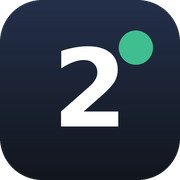
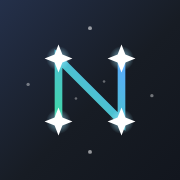
Add files via upload

diff --git a/index.html b/index.html
@@ -3,7 +3,7 @@
 <head>
 <meta charset="utf-8">
 <meta name="viewport" content="width=device-width, initial-scale=1, viewport-fit=cover">
-<title>Segundo de Carrera · 2026/27</title>
+<title>Nolan</title>
 <meta name="theme-color" content="#171C24">
 <!-- settings (language, theme, animations) are read before anything is painted,
      so the page never flashes in the wrong theme. prefs.js takes over from here. -->
@@ -22,26 +22,26 @@
 <link rel="icon" href="favicon.ico" sizes="any">
 <link rel="apple-touch-icon" href="apple-touch-icon.png">
 <link rel="manifest" href="manifest.webmanifest">
-<meta name="apple-mobile-web-app-title" content="2º Carrera">
+<meta name="apple-mobile-web-app-title" content="Nolan">
 <link rel="preconnect" href="https://fonts.googleapis.com">
 <link rel="preconnect" href="https://fonts.gstatic.com" crossorigin>
 <!-- the font does not block the first paint: it applies as soon as it arrives -->
 <link href="https://fonts.googleapis.com/css2?family=Archivo:wght@400;500;600;700;800&display=swap" rel="stylesheet" media="print" onload="this.media='all'">
 <noscript><link href="https://fonts.googleapis.com/css2?family=Archivo:wght@400;500;600;700;800&display=swap" rel="stylesheet"></noscript>
-<link rel="stylesheet" href="css/base.css?v=42">
-<link rel="stylesheet" href="css/header.css?v=42">
-<link rel="stylesheet" href="css/tabbar.css?v=42">
-<link rel="stylesheet" href="css/today.css?v=42">
-<link rel="stylesheet" href="css/schedule.css?v=42">
-<link rel="stylesheet" href="css/planner.css?v=42">
-<link rel="stylesheet" href="css/subjects.css?v=42">
-<link rel="stylesheet" href="css/exams.css?v=42">
-<link rel="stylesheet" href="css/tasks.css?v=42">
-<link rel="stylesheet" href="css/home.css?v=42">
-<link rel="stylesheet" href="css/nolan.css?v=42">
-<link rel="stylesheet" href="css/settings.css?v=42">
-<link rel="stylesheet" href="css/effects.css?v=42">
-<link rel="stylesheet" href="css/light.css?v=42">
+<link rel="stylesheet" href="css/base.css?v=43">
+<link rel="stylesheet" href="css/header.css?v=43">
+<link rel="stylesheet" href="css/tabbar.css?v=43">
+<link rel="stylesheet" href="css/today.css?v=43">
+<link rel="stylesheet" href="css/schedule.css?v=43">
+<link rel="stylesheet" href="css/planner.css?v=43">
+<link rel="stylesheet" href="css/subjects.css?v=43">
+<link rel="stylesheet" href="css/exams.css?v=43">
+<link rel="stylesheet" href="css/tasks.css?v=43">
+<link rel="stylesheet" href="css/home.css?v=43">
+<link rel="stylesheet" href="css/nolan.css?v=43">
+<link rel="stylesheet" href="css/settings.css?v=43">
+<link rel="stylesheet" href="css/effects.css?v=43">
+<link rel="stylesheet" href="css/light.css?v=43">
 </head>
 <body>
 <header class="top">
@@ -52,7 +52,7 @@
         <a class="icon home-btn" href="#home" aria-label="Inicio" title="Inicio" data-i18n-aria="s.home" data-i18n-title="s.home">
           <svg viewBox="0 0 24 24" aria-hidden="true"><path class="f" d="M4 10.6 12 4l8 6.6V19a1.5 1.5 0 0 1-1.5 1.5H15v-5.2H9v5.2H5.5A1.5 1.5 0 0 1 4 19z"/></svg>
         </a>
-        <div class="brand"><span class="dot"></span><span data-i18n="s.brand">UC3M · Segundo de carrera · </span><span data-term>1.er cuatrimestre</span></div>
+        <div class="brand"><svg class="brand-mark" viewBox="0 0 64 64" aria-hidden="true"><defs><linearGradient id="brandInk" x1="0" y1="1" x2="1" y2="0"><stop offset="0" stop-color="#3FD9A4"/><stop offset="1" stop-color="#5AA9FF"/></linearGradient></defs><path d="M12 52V12L52 52V12" fill="none" stroke="url(#brandInk)" stroke-width="6"/><g fill="#fff"><path d="M12 2l3 7 7 3-7 3-3 7-3-7-7-3 7-3z"/><path d="M52 2l3 7 7 3-7 3-3 7-3-7-7-3 7-3z"/><path d="M12 42l3 7 7 3-7 3-3 7-3-7-7-3 7-3z"/><path d="M52 42l3 7 7 3-7 3-3 7-3-7-7-3 7-3z"/></g></svg><span data-i18n="s.brand">Nolan · UC3M · </span><span data-term>1.er cuatrimestre</span></div>
       </div>
       <div class="hdr-actions">
         <a class="ag-btn" href="https://aulaglobal.uc3m.es" target="_blank" rel="noopener" aria-label="Aula Global (se abre en otra pestaña)" data-i18n-aria="s.aulaGlobalAria">
@@ -209,7 +209,7 @@
 
 </main>
 
-<footer><div class="wrap"><p data-i18n="s.footer">Montado a partir de tu horario personal de la UC3M, el horario del grupo 1081, las guías docentes 2026/27 y los materiales de presentación de cada asignatura. Los datos de profesorado proceden del directorio público de la universidad. Lo que en los documentos originales estaba marcado como provisional sigue estándolo aquí.</p><p><a href="#notes" id="notesLink">·</a></p><p class="version">v42</p></div></footer>
+<footer><div class="wrap"><p data-i18n="s.footer">Montado a partir de tu horario personal de la UC3M, el horario del grupo 1081, las guías docentes 2026/27 y los materiales de presentación de cada asignatura. Los datos de profesorado proceden del directorio público de la universidad. Lo que en los documentos originales estaba marcado como provisional sigue estándolo aquí.</p><p><a href="#notes" id="notesLink">·</a></p><p class="version">v43</p></div></footer>
 </div>
 <div id="debug"></div>
 
@@ -220,7 +220,7 @@
   <div class="p-in">
     <div class="p-top">
       <div class="p-time" id="homeTime">--:--</div>
-      <div class="p-greeting" id="homeGreeting" data-i18n="s.hello">Hola, Shengyu</div>
+      <div class="p-greeting" id="homeGreeting" data-i18n="s.hello">Hola, Nolan</div>
     </div>
 
     <div class="p-view" data-view="home">
@@ -255,29 +255,29 @@
     <div class="p-view p-nolan" data-view="nolan" id="nolanView" hidden></div>
   </div>
 </div>
-<script src="config.js?v=42" onerror="void 0"></script>
-<script src="data.js?v=42"></script>
-<script src="eval.js?v=42"></script>
-<script src="js/prefs.js?v=42"></script>
-<script src="js/i18n.js?v=42"></script>
-<script src="js/core.js?v=42"></script>
-<script src="js/validate.js?v=42"></script>
-<script src="js/derived.js?v=42"></script>
-<script src="js/cloud.js?v=42"></script>
-<script src="js/header.js?v=42"></script>
-<script src="js/schedule.js?v=42"></script>
-<script src="js/today.js?v=42"></script>
-<script src="js/subjects.js?v=42"></script>
-<script src="js/faculty.js?v=42"></script>
-<script src="js/exams.js?v=42"></script>
-<script src="js/tasks.js?v=42"></script>
-<script src="js/notes.js?v=42"></script>
-<script src="js/planner.js?v=42"></script>
-<script src="js/settings.js?v=42"></script>
-<script src="js/nolan.js?v=42"></script>
-<script src="js/home.js?v=42"></script>
-<script src="js/router.js?v=42"></script>
-<script src="js/debug.js?v=42"></script>
-<script src="js/effects.js?v=42"></script>
+<script src="config.js?v=43" onerror="void 0"></script>
+<script src="data.js?v=43"></script>
+<script src="eval.js?v=43"></script>
+<script src="js/prefs.js?v=43"></script>
+<script src="js/i18n.js?v=43"></script>
+<script src="js/core.js?v=43"></script>
+<script src="js/validate.js?v=43"></script>
+<script src="js/derived.js?v=43"></script>
+<script src="js/cloud.js?v=43"></script>
+<script src="js/header.js?v=43"></script>
+<script src="js/schedule.js?v=43"></script>
+<script src="js/today.js?v=43"></script>
+<script src="js/subjects.js?v=43"></script>
+<script src="js/faculty.js?v=43"></script>
+<script src="js/exams.js?v=43"></script>
+<script src="js/tasks.js?v=43"></script>
+<script src="js/notes.js?v=43"></script>
+<script src="js/planner.js?v=43"></script>
+<script src="js/settings.js?v=43"></script>
+<script src="js/nolan.js?v=43"></script>
+<script src="js/home.js?v=43"></script>
+<script src="js/router.js?v=43"></script>
+<script src="js/debug.js?v=43"></script>
+<script src="js/effects.js?v=43"></script>
 </body>
 </html>

diff --git a/js/i18n.js b/js/i18n.js
@@ -89,7 +89,7 @@ es:{
   "cloud.waiting":"Sin conexión: se guardará al conectar.",
 
   /* ---- static texts of index.html ---- */
-  "s.home":"Inicio", "s.brand":"UC3M · Segundo de carrera · ", "s.aulaGlobalAria":"Aula Global (se abre en otra pestaña)",
+  "s.home":"Inicio", "s.brand":"Nolan · UC3M · ", "s.aulaGlobalAria":"Aula Global (se abre en otra pestaña)",
   "s.notes":"Notas", "s.settings":"Configuración", "s.sections":"Secciones",
   "s.tab.schedule":"Horario", "s.tab.subjects":"Asignaturas", "s.tab.exams":"Exámenes", "s.tab.tasks":"Pendientes", "s.tab.faculty":"Profesorado",
   "s.closeWarning":"Cerrar aviso", "s.prevDay":"Día anterior", "s.nextDay":"Día siguiente",
@@ -107,7 +107,7 @@ es:{
   "s.notes.lead":"Texto plano que se guarda solo. Claude no puede abrir la nube por su cuenta: cuando quieras que aplique algo, pulsa <b>Copiar notas</b> y pégaselas en el chat.",
   "s.notes.placeholder":"Ejemplo:\n- El parcial de IS es el 8 de octubre a las 12:30 en el aula 4.0.E04\n- Cambiar el aula del viernes de ED a 2.2.C05",
   "s.footer":"Montado a partir de tu horario personal de la UC3M, el horario del grupo 1081, las guías docentes 2026/27 y los materiales de presentación de cada asignatura. Los datos de profesorado proceden del directorio público de la universidad. Lo que en los documentos originales estaba marcado como provisional sigue estándolo aquí.",
-  "s.hello":"Hola, Shengyu", "s.whereTo":"¿A dónde vamos?", "s.secondYear":"Segundo de carrera · ", "s.enter":"Entrar",
+  "s.hello":"Hola, Nolan", "s.whereTo":"¿A dónde vamos?", "s.secondYear":"Segundo de carrera · ", "s.enter":"Entrar",
   "s.wip":"En construcción", "s.nolanSoon":"Pronto, con lo que me vayas contando.", "s.view":"Ver",
   /* settings */
   "s.settings.lead":"Se guarda en este dispositivo.",
@@ -178,7 +178,7 @@ en:{
   "cloud.saving":"Saving…", "cloud.saved":"Saved.", "cloud.saveFailed":"Could not save. It will retry.",
   "cloud.waiting":"Offline: it will save once connected.",
 
-  "s.home":"Home", "s.brand":"UC3M · Second year · ", "s.aulaGlobalAria":"Aula Global (opens in a new tab)",
+  "s.home":"Home", "s.brand":"Nolan · UC3M · ", "s.aulaGlobalAria":"Aula Global (opens in a new tab)",
   "s.notes":"Notes", "s.settings":"Settings", "s.sections":"Sections",
   "s.tab.schedule":"Schedule", "s.tab.subjects":"Subjects", "s.tab.exams":"Exams", "s.tab.tasks":"Tasks", "s.tab.faculty":"Faculty",
   "s.closeWarning":"Close warning", "s.prevDay":"Previous day", "s.nextDay":"Next day",
@@ -196,7 +196,7 @@ en:{
   "s.notes.lead":"Plain text that saves itself. Claude cannot open the cloud on its own: when you want something applied, press <b>Copy notes</b> and paste them into the chat.",
   "s.notes.placeholder":"Example:\n- The SE midterm is on 8 October at 12:30 in room 4.0.E04\n- Change Friday's DS room to 2.2.C05",
   "s.footer":"Built from your personal UC3M timetable, the group 1081 timetable, the 2026/27 course guides and each subject's introduction materials. Faculty data comes from the university's public directory. Whatever was marked as provisional in the original documents is still provisional here.",
-  "s.hello":"Hi, Shengyu", "s.whereTo":"Where to?", "s.secondYear":"Second year · ", "s.enter":"Enter",
+  "s.hello":"Hi, Nolan", "s.whereTo":"Where to?", "s.secondYear":"Second year · ", "s.enter":"Enter",
   "s.wip":"Under construction", "s.nolanSoon":"Coming soon, with whatever you tell me.", "s.view":"View",
   "s.settings.lead":"Saved on this device.",
   "s.set.lang":"Language", "s.set.langHelp":"The whole interface. Subject texts (grading, advice, syllabus) stay in Spanish.",

diff --git a/css/effects.css b/css/effects.css
@@ -27,7 +27,7 @@
 /* ---------- 12 · reduced motion ---------- */
 /* idle: after a while without touching anything, self-moving decorations stop (effects.js) */
 body.idle .aurora i,body.idle header.top::before,body.idle .p-sky,body.idle .ag-btn::after,
-body.idle .clock-time .sep,body.idle .week-badge .w-bar u::after,body.idle .brand .dot,body.idle .live::before,
+body.idle .clock-time .sep,body.idle .week-badge .w-bar u::after,body.idle .live::before,
 body.idle .now-line::after,body.idle .prog .track::after,body.idle .i-crane .hook{animation-play-state:paused}
 
 @media (prefers-reduced-motion:reduce){
@@ -39,7 +39,7 @@ body.idle .now-line::after,body.idle .prog .track::after,body.idle .i-crane .hoo
    basic: the decorations that move on their own stop; transitions stay.
    none: nothing moves at all (same as the system's "reduce motion"). */
 [data-motion=basic] .aurora i,[data-motion=basic] header.top::before,[data-motion=basic] .p-sky,[data-motion=basic] .ag-btn::after,
-[data-motion=basic] .clock-time .sep,[data-motion=basic] .week-badge .w-bar u::after,[data-motion=basic] .brand .dot,
+[data-motion=basic] .clock-time .sep,[data-motion=basic] .week-badge .w-bar u::after,
 [data-motion=basic] .live::before,[data-motion=basic] .now-line::after,[data-motion=basic] .prog .track::after,
 [data-motion=basic] .i-crane .hook{animation:none!important}
 [data-motion=none] *,[data-motion=none] *::before,[data-motion=none] *::after{animation:none!important;transition:none!important}

diff --git a/css/header.css b/css/header.css
@@ -57,7 +57,8 @@ header.top::before,.p-sky{
   font-size:.7rem;font-weight:600;letter-spacing:.07em;text-transform:uppercase;
   color:#8493A8;white-space:nowrap;overflow:hidden;text-overflow:ellipsis;
 }
-.brand .dot{width:7px;height:7px;flex:0 0 auto;border-radius:50%;background:var(--go);box-shadow:0 0 8px rgba(63,217,164,.6);animation:breathe 5s ease-in-out infinite}
+/* the Nolan logo, small, in front of the name */
+.brand .brand-mark{width:15px;height:15px;flex:0 0 auto;filter:drop-shadow(0 0 6px rgba(63,217,164,.45))}
 @keyframes breathe{0%,100%{opacity:1;transform:scale(1)}50%{opacity:.45;transform:scale(.8)}}
 .hdr-actions{display:flex;align-items:center;gap:8px;flex:0 0 auto}
 .hdr-actions svg,.tab-icon svg{

diff --git a/js/home.js b/js/home.js
@@ -14,7 +14,7 @@ const Home=(function(){
   function draw(){
     const n=new Date(), k=isoDate(n), m=minutesOf(n);
     $("#homeTime").textContent=hhmm(m);
-    $("#homeGreeting").textContent=t("home.greeting",{hello:greeting(n.getHours()),name:"Shengyu"});
+    $("#homeGreeting").textContent=t("home.greeting",{hello:greeting(n.getHours()),name:"Nolan"});
     const cs=classesOn(k), next=cs.find(c=>classState(c,m)!=="over");
     const cls=next?t(classState(next,m)==="now"?"home.now":"home.next",{subject:SUBJECTS[next.subject].name,time:hhmm(next.start),room:next.room})
       :cs.length?t("home.doneToday"):(noClassReason(k)||{text:t("home.noClassToday")}).text.replace(/\.$/,"");

diff --git a/README.md b/README.md
@@ -1,15 +1,19 @@
-# Segundo de Carrera
+# Nolan
 
-Dashboard for the 2026/27 year — Double Degree in Computer Engineering and Business Administration, UC3M.
+Nolan's personal organizer. Today it covers the 2026/27 year at UC3M (Double Degree in Computer Engineering and Business Administration).
 A static site (HTML, CSS and JavaScript, no libraries, no build step) published on GitHub Pages:
-<https://relentlessyunn.github.io/segundo-de-carrera/>
+<https://relentlessyunn.github.io/with-nolan/>
 
 > **For Claude:** read this whole file before touching anything. Clone the repo
-> (`git clone https://github.com/RelentlessYunn/segundo-de-carrera`) to work on the
+> (`git clone https://github.com/RelentlessYunn/with-nolan`) to work on the
 > latest published version, change only the files you need, bump the version
 > (see *Publishing a version*) and run the tests. Answer the owner in Spanish.
 
 ---
+
+## Name and logo
+
+The site is called **Nolan**. The logo is an astral N: four identical four-point stars joined by straight lines, symmetric (green → blue gradient): `favicon.svg` is the source; `favicon.ico`, `apple-touch-icon.png`, `icon-192.png` and `icon-512.png` are rendered from it. The same mark sits small in the header (`.brand-mark` in `index.html`).
 
 ## What the site has
 
@@ -160,7 +164,7 @@ Settings are not in the cloud: they are per device (`localStorage`, key `setting
 
 ## Publishing a version
 
-1. Bump the number in `index.html`: the footer (`<p class="version">v42</p>`) and every `?v=42`, all at once.
+1. Bump the number in `index.html`: the footer (`<p class="version">v43</p>`) and every `?v=43`, all at once.
 2. Upload the changed files to GitHub, keeping the `js/` and `css/` folders.
 3. GitHub Pages takes a minute or two. The footer number tells you which version you are seeing.
 
